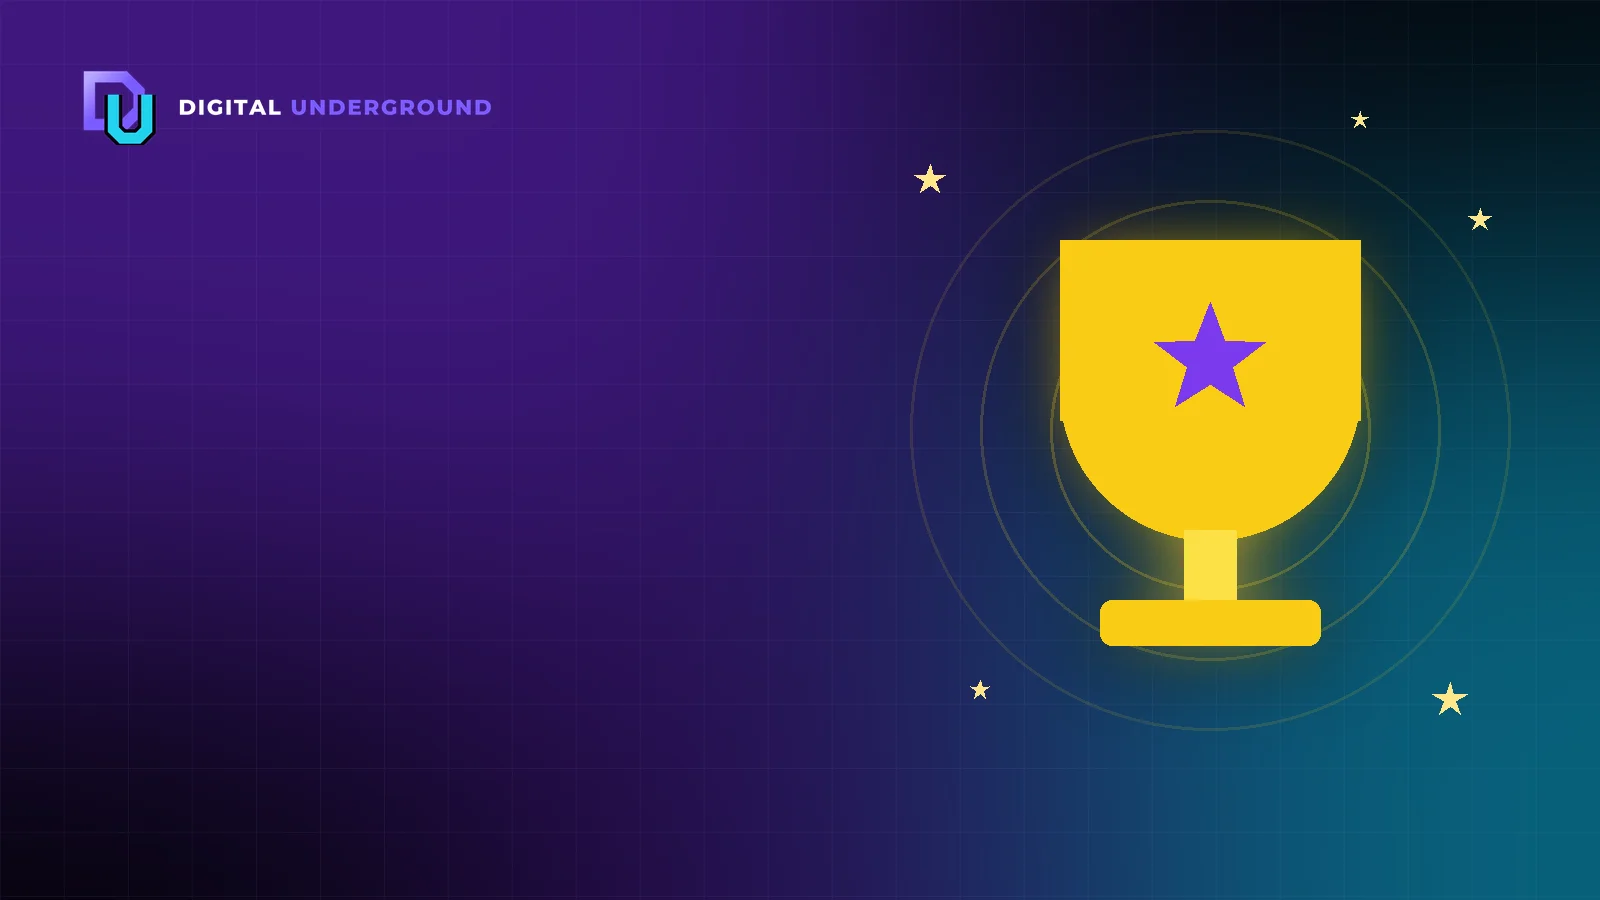
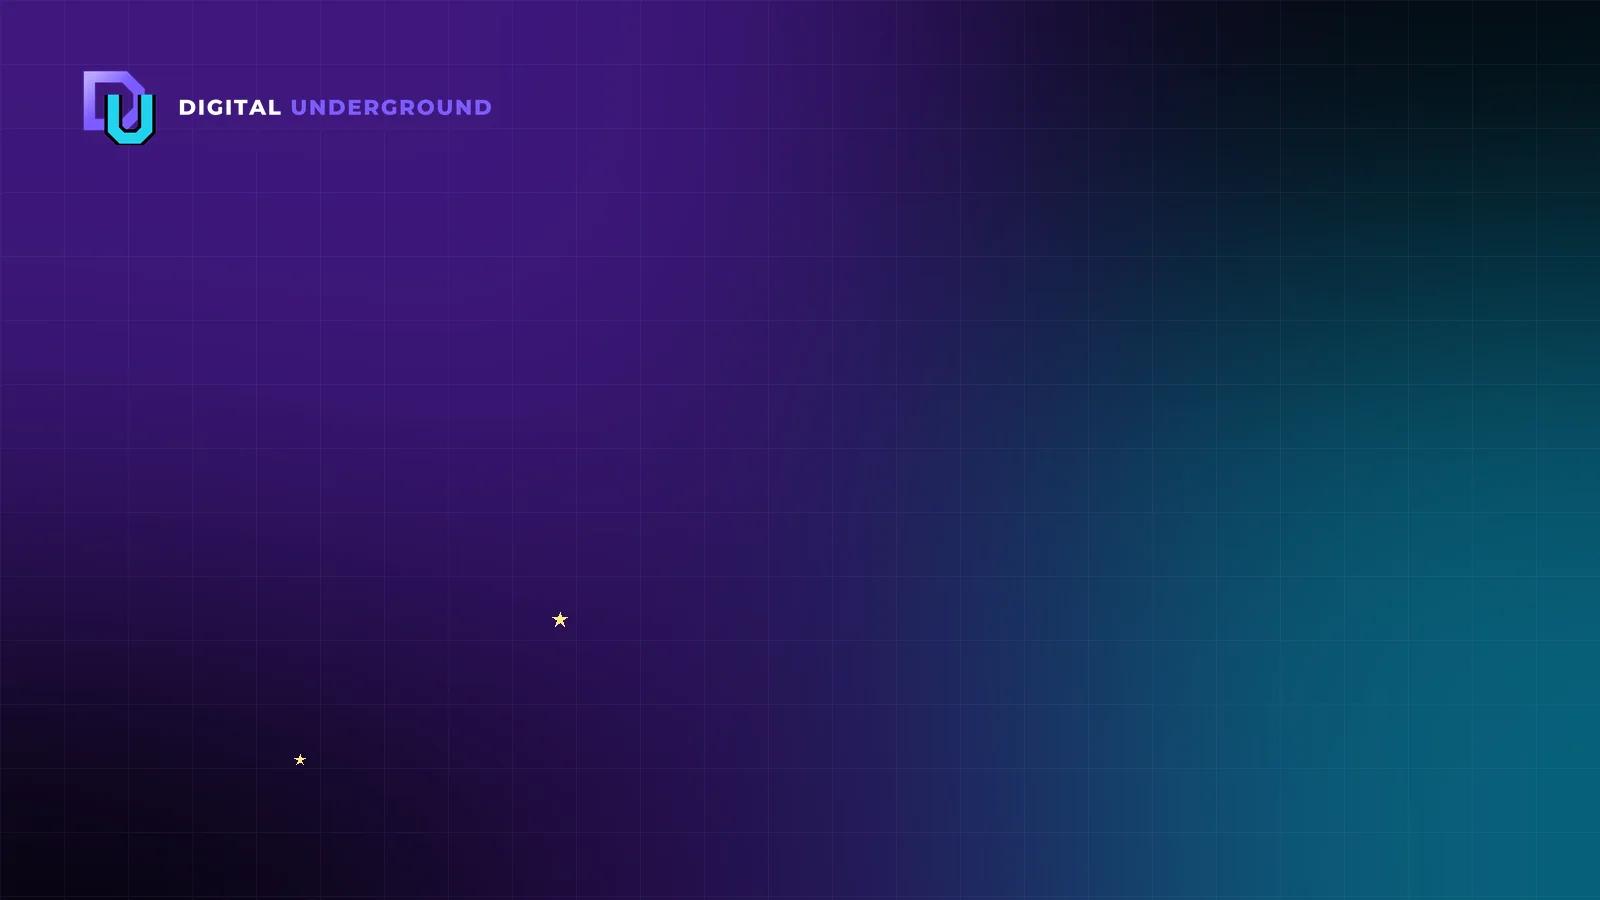
Preview: premium trophy, smaller root card, store award seal, winner label

diff --git a/league/hero.css b/league/hero.css
@@ -29,3 +29,35 @@
 }
 @media (prefers-reduced-motion:reduce){.lgh-in::after{animation:none;display:none}.lgh-btn{transition:none}}
 .lgh p,.lgh h2{margin:0;max-width:none}.lgh .lgh-btns{margin-top:6px}
+.lgh .lgh-media img.lgh-trophy{position:absolute;right:4%;top:50%;height:96%;width:auto;aspect-ratio:400/520;transform:translateY(-50%);filter:drop-shadow(0 18px 30px rgba(0,0,0,.45))}
+/* Root: prominent card beside the headline (~1/3 width); compact on mobile. */
+.lgh{width:100%;box-sizing:border-box}
+.lgh .lgh-in{grid-template-columns:1fr!important}
+.lgh .lgh-media{aspect-ratio:16/10;align-self:auto}
+.lgh .lgh-media img{height:100%;aspect-ratio:auto}
+.lgh .lgh-media img.lgh-trophy{right:6%;height:100%}
+.lgh .lgh-sub{display:none}
+.lgh-body{padding:16px 18px 18px!important;gap:8px!important}
+.lgh h2{font-size:22px!important}
+.lgh-btn{min-height:42px;padding:0 18px;font-size:14.5px}
+.lgh-meta{font-size:12.5px}
+@media (max-width:1023px){.lgh{margin:22px auto 6px;max-width:360px}}
+@media (min-width:1024px){
+ .hero:has(> #lg-hero:not([hidden])){display:grid!important;grid-template-columns:minmax(0,1fr) 340px;column-gap:44px;align-items:center;text-align:left;max-width:1180px;margin-left:auto;margin-right:auto}
+ .hero:has(> #lg-hero:not([hidden])) > *{grid-column:1!important}
+ .hero:has(> #lg-hero:not([hidden])) > #lg-hero{grid-column:2!important;grid-row:1 / span 12!important;margin:0;align-self:center}
+ .hero:has(> #lg-hero:not([hidden])) .hero-cta,.hero:has(> #lg-hero:not([hidden])) .hero-stats{justify-content:flex-start}
+ .hero:has(> #lg-hero:not([hidden])) .hero-badge{justify-self:start;margin-left:0}
+ .hero:has(> #lg-hero:not([hidden])) .hero-stats{margin-left:0;justify-self:start}
+ .hero:has(> #lg-hero:not([hidden])) p,.hero:has(> #lg-hero:not([hidden])) h1{margin-left:0}
+}
+/* Store: premium award seal */
+.lgp-slot{margin-top:20px}
+.lgp{position:relative;display:inline-flex;align-items:center;gap:12px;padding:8px 18px 8px 8px;border-radius:999px;text-decoration:none;overflow:hidden;background:linear-gradient(#100c22,#0b0918) padding-box,linear-gradient(135deg,#fde68a,#b45309 30%,#fef3c7 50%,#a78bfa 75%,#22d3ee) border-box;border:1.5px solid transparent;box-shadow:0 10px 30px rgba(124,58,237,.32),0 0 26px rgba(250,204,21,.16);transition:transform .2s,box-shadow .2s;font-family:Inter,system-ui,sans-serif}
+.lgp::after{content:"";position:absolute;inset:0;background:linear-gradient(110deg,transparent 40%,rgba(255,247,214,.22) 50%,transparent 60%);transform:translateX(-120%);animation:lgh-shine 4.5s ease-in-out infinite;pointer-events:none}
+.lgp:hover{transform:translateY(-1px);box-shadow:0 12px 34px rgba(124,58,237,.45),0 0 34px rgba(250,204,21,.26)}
+.lgp-m{width:52px;height:52px;flex:none;filter:drop-shadow(0 4px 10px rgba(250,204,21,.35))}
+.lgp-t{display:flex;flex-direction:column;gap:3px;min-width:0}
+.lgp-b{font-size:11px;font-weight:800;letter-spacing:.12em;text-transform:uppercase;white-space:nowrap;background:linear-gradient(90deg,#fde68a,#fffbeb 45%,#f59e0b);-webkit-background-clip:text;background-clip:text;color:transparent}
+.lgp-n{color:#fff;font-weight:700;font-size:15px;white-space:nowrap;overflow:hidden;text-overflow:ellipsis;max-width:240px}
+@media (prefers-reduced-motion:reduce){.lgp{transition:none}.lgp::after{animation:none;display:none}}

diff --git a/league/hero.js b/league/hero.js
@@ -12,14 +12,18 @@
     var reset = lg.endsAt ? "Resets " + resets(lg.endsAt) + ", 12:00 AM ET" : "Resets Monday 12:00 AM ET";
     var votes = typeof lg.totalVotes === "number" ? lg.totalVotes + (lg.totalVotes === 1 ? " vote" : " votes") + " so far" : "";
     var html;
+    if (slot.getAttribute("data-mode") === "badge") {
+      slot.innerHTML = '<a class="lgp" href="' + esc(w ? w.url : "/league/") + '"><img class="lgp-m" src="/league/media/medal.svg?v=1" alt="" width="52" height="52"><span class="lgp-t"><span class="lgp-b">Maker of the Week</span><span class="lgp-n">' + esc(w ? w.name : "Week " + wk + " under way") + "</span></span></a>";
+      slot.hidden = false; return;
+    }
     if (w) {
       html = '<div class="lgh-in"><div class="lgh-media">' + (w.imageUrl ? '<img src="' + esc(w.imageUrl) + '" alt="' + esc(w.name) + '" loading="lazy">' : '<img src="/league/media/league-hero-bg.webp" alt="">') + '</div>' +
         '<div class="lgh-body"><span class="lgh-badge">★ Maker of the Week</span><h2>' + esc(w.name) + '</h2><p class="lgh-by">by ' + esc(w.makerName) + ' · <span class="lgh-votes">' + w.votes + (w.votes === 1 ? " vote" : " votes") + "</span></p>" +
         (w.pitchShort ? '<p class="lgh-sub">' + esc(w.pitchShort) + "</p>" : "") +
         '<div class="lgh-btns"><a class="lgh-btn gold" href="' + esc(w.url) + '">Visit</a><a class="lgh-btn ghost" href="/league/">Vote this week</a></div>' +
-        '<p class="lgh-meta"><span>Week ' + (wk - 1) + " winner</span><span>" + esc(reset) + "</span></p></div></div>";
+        '<p class="lgh-meta"><span>' + (w.week ? "Week of " + new Date(w.week + "T12:00:00Z").toLocaleDateString("en-GB", { day: "numeric", month: "short", timeZone: "UTC" }) : "Last week") + " winner</span><span>" + esc(reset) + "</span></p></div></div>";
     } else {
-      html = '<div class="lgh-in"><div class="lgh-media"><img src="/league/media/league-hero-bg.webp" alt="" width="1600" height="900"></div>' +
+      html = '<div class="lgh-in"><div class="lgh-media"><img src="/league/media/league-hero-bg.webp" alt="" width="1600" height="900"><img class="lgh-trophy" src="/league/media/trophy.svg?v=1" alt="Gold Maker of the Week trophy"></div>' +
         '<div class="lgh-body"><span class="lgh-badge">★ Maker of the Week</span><h2>Week ' + wk + ' — competition under way</h2>' +
         '<p class="lgh-sub">Vote for your favourite indie project. The top pick becomes Maker of the Week, right here at the top of the page.</p>' +
         '<div class="lgh-btns"><a class="lgh-btn pri" href="/league/">Vote now</a></div>' +

diff --git a/index.html b/index.html
@@ -61,7 +61,7 @@
       <a href="/community/submit/" class="btn btn-primary">List your project free <svg aria-hidden="true" focusable="false" width="16" height="16" fill="none" stroke="currentColor" stroke-width="2.5" viewBox="0 0 24 24"><path d="M5 12h14M12 5l7 7-7 7"/></svg></a>
       <a href="#projects" class="btn btn-outline">Explore projects</a>
     </div>
-    <section id="lg-hero" class="lgh" aria-label="Maker League" hidden></section><link rel="stylesheet" href="/league/hero.css?v=1"><script src="/league/hero.js?v=1" defer></script>
+    <section id="lg-hero" class="lgh" aria-label="Maker League" hidden></section><link rel="stylesheet" href="/league/hero.css?v=3"><script src="/league/hero.js?v=3" defer></script>
     <div class="hero-stats">
       <div class="stat">
         <div class="stat-value">0%</div>

diff --git a/src/home-v3/index.template.html b/src/home-v3/index.template.html
@@ -61,7 +61,7 @@
       <a href="/community/submit/" class="btn btn-primary">List your project free <svg aria-hidden="true" focusable="false" width="16" height="16" fill="none" stroke="currentColor" stroke-width="2.5" viewBox="0 0 24 24"><path d="M5 12h14M12 5l7 7-7 7"/></svg></a>
       <a href="#projects" class="btn btn-outline">Explore projects</a>
     </div>
-    <section id="lg-hero" class="lgh" aria-label="Maker League" hidden></section><link rel="stylesheet" href="/league/hero.css?v=1"><script src="/league/hero.js?v=1" defer></script>
+    <section id="lg-hero" class="lgh" aria-label="Maker League" hidden></section><link rel="stylesheet" href="/league/hero.css?v=3"><script src="/league/hero.js?v=3" defer></script>
     <div class="hero-stats">
       <div class="stat">
         <div class="stat-value">0%</div>

diff --git a/store/index.html b/store/index.html
@@ -685,7 +685,7 @@
     <div class="sx-cta">
       <a class="sx-btn sx-btn-primary sx-btn-lg sx-hero-btn" href="/"><span class="sx-shine">Developer Marketplace</span></a>
     </div>
-    <section id="lg-hero" class="lgh" aria-label="Maker League" hidden></section><link rel="stylesheet" href="/league/hero.css?v=1"><script src="/league/hero.js?v=1" defer></script>
+    <div id="lg-hero" class="lgp-slot" data-mode="badge" hidden></div><link rel="stylesheet" href="/league/hero.css?v=3"><script src="/league/hero.js?v=3" defer></script>
   </section>
   <div class="sx-layout">
     <div class="sx-backdrop" id="sxBackdrop" hidden></div>
